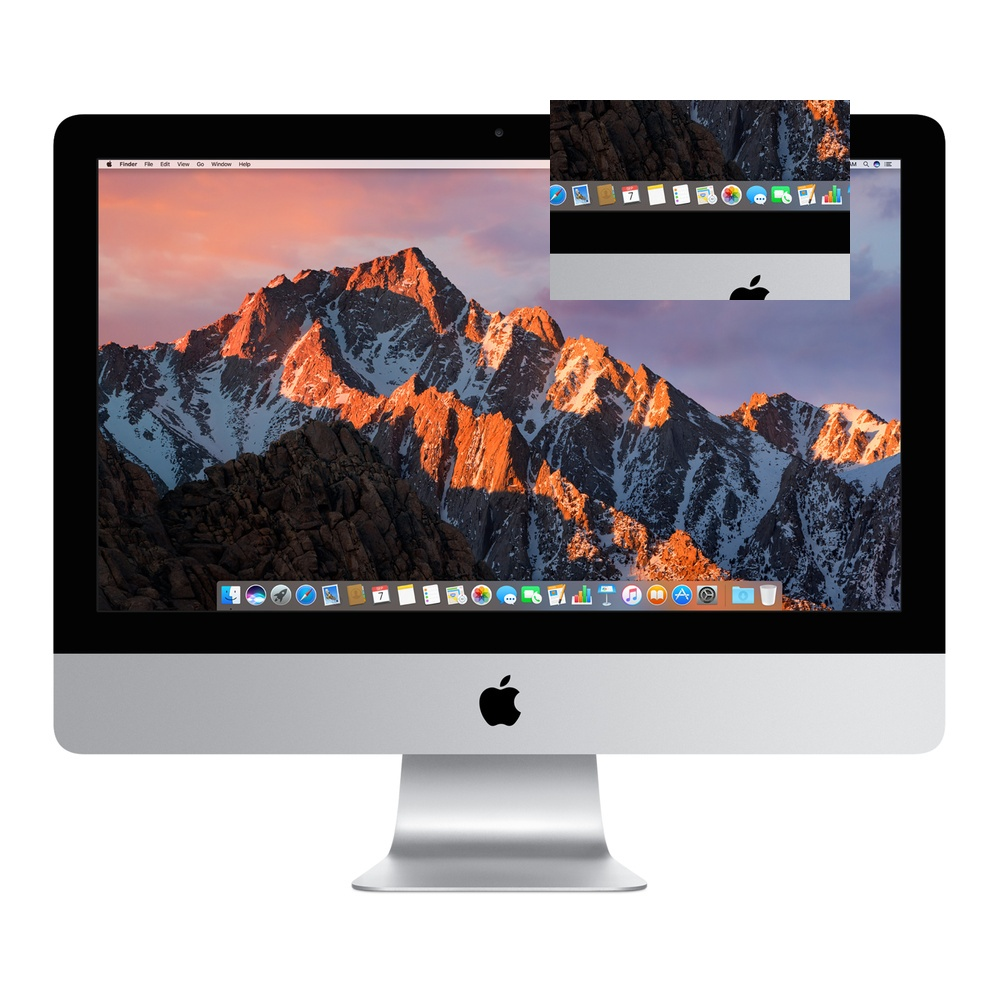
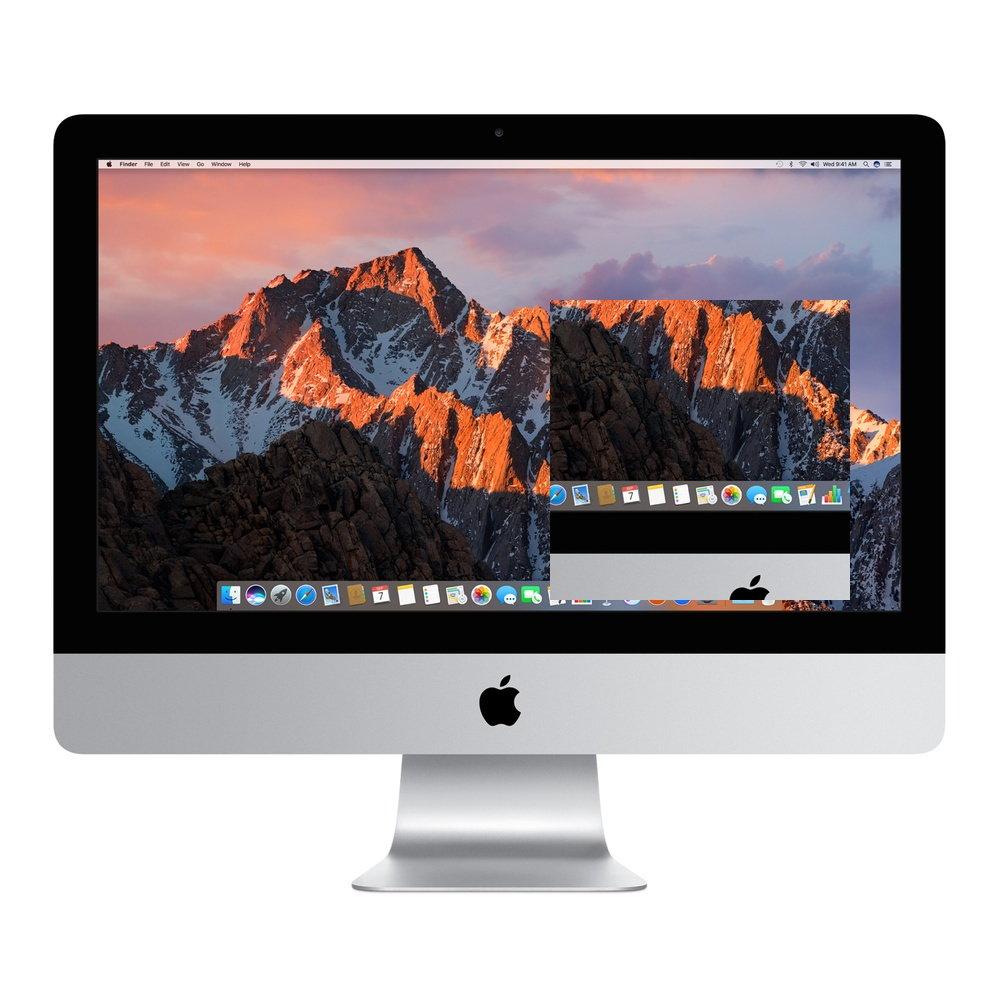
updating

Changed region(s): [[0.527, 0.093, 0.868, 0.62]]

diff --git a/02. OpenCV With Python - Image Fundamentals and Manipulation.py b/02. OpenCV With Python - Image Fundamentals and Manipulation.py
@@ -18,8 +18,8 @@ print(img.shape)
 print(img[0])
 
 # copy image
-tag = img[500:700, 300:600]
-img[100:300, 550:850] = tag
+tag = img[400:700, 300:600] # copy square image
+img[300:600, 550:850] = tag # paste image
 
 # display the image
 cv2.imshow('Image', img)

diff --git a/README.md b/README.md
@@ -36,4 +36,4 @@ in this part we will dive into how image is represented in the computer, how we 
 
 To get more understanding about our image, we can check the shape of the image, it will show us the number of rolls, colums and channels of the image respectively. The channel here represent the color space of the image, the value that represent each pixels which is Blue, Green and Red in openCV instead of the standard Red, Green and Blue respectively. the value for the pixels ranges between 0 to 255, the value appointed will determine the color this is important because when we manipulate the image all we are doing is modifing the numbers in the ndarray.
 
-The next step in our manipulation process is to cut  part of the image and move it to another part of the image, we do this by taking part of the array we want and paste it on the other part of the array we want it to be using numpy array slice     13:08
+The next step in our manipulation process is to cut part of the image and move it to another part of the image, we do this by taking part of the array we want and paste it on the other part of the array we want it to be using numpy array slice     13:08
